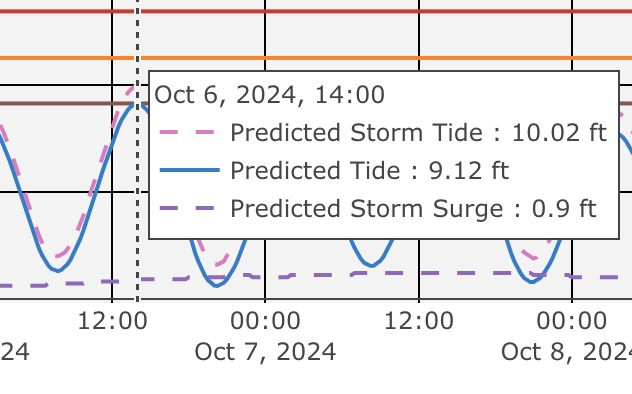
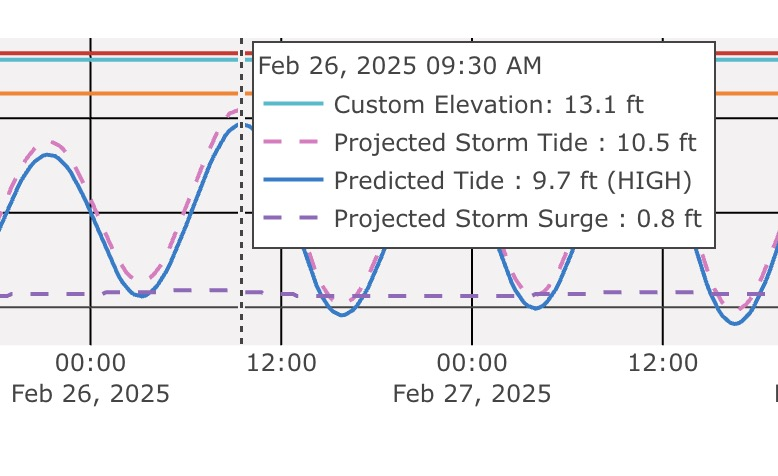
For storm surge data, changed "predicted" to "projected" everywhere

Changed region(s): [[0.0, 0.0, 1.0, 0.9137], [0.9921, 0.7919, 1.0, 0.8528]]

diff --git a/wnttapp/src/Glossary.jsx b/wnttapp/src/Glossary.jsx
@@ -166,7 +166,19 @@ export default function Glossary() {
                 </Row>
                 <Row>
                     <Col sm={2} className='border-end border-2'>
-                        <b>Predicted Storm Surge</b>
+                        <b>Recorded Storm Surge</b>
+                    </Col>
+                    <Col>
+                        The difference between the Observed Tide and the Predicted Tide. This
+                        generally represents the effects of wind, rain and other meteorological
+                        factors such as storms. For example, if the Predicted Tide was 11.5 feet and
+                        the Observed Tide was 12 feet, the Recorded Storm Surge would be 0.5 feet
+                        for that observation time.
+                    </Col>
+                </Row>
+                <Row>
+                    <Col sm={2} className='border-end border-2'>
+                        <b>Projected Storm Surge</b>
                     </Col>
                     <Col>
                         A computer model-generated estimate of adjustments to Predicted Tide levels
@@ -193,21 +205,9 @@ export default function Glossary() {
                 </Row>
                 <Row>
                     <Col sm={2} className='border-end border-2'>
-                        <b>Recorded Storm Surge</b>
+                        <b>Projected Storm Tide</b>
                     </Col>
-                    <Col>
-                        The difference between the Observed Tide and the Predicted Tide. This
-                        generally represents the effects of wind, rain and other meteorological
-                        factors such as storms. For example, if the Predicted Tide was 11.5 feet and
-                        the Observed Tide was 12 feet, the Recorded Storm Surge would be 0.5 feet
-                        for that observation time.
-                    </Col>
-                </Row>
-                <Row>
-                    <Col sm={2} className='border-end border-2'>
-                        <b>Predicted Storm Tide</b>
-                    </Col>
-                    <Col>The sum of Predicted Tide and Predicted Storm Surge.</Col>
+                    <Col>The sum of Predicted Tide and Projected Storm Surge.</Col>
                 </Row>
                 <Row>
                     <Col sm={2} className='border-end border-2'>

diff --git a/wnttapp/src/GraphHelp.jsx b/wnttapp/src/GraphHelp.jsx
@@ -33,7 +33,7 @@ export default function GraphHelp(props) {
                         see a new colored line on the graph with the label <b>Custom Elevation. </b>
                         If you set your date range to include today and the next several days,{' '}
                         <b>
-                            you will be able to see whether the predicted tide comes close to or
+                            you will be able to see whether the projected tide comes close to or
                             exceeds this elevation.
                         </b>
                     </Accordion.Body>
@@ -47,9 +47,9 @@ export default function GraphHelp(props) {
                         speed/direction, along with the predicted astronomical tides. For several
                         days in the future, in addition to predicted astronomical tides, (which do
                         not account for the effects of weather), there is the experimental{' '}
-                        <b>Predicted Storm Surge</b> data, which does consider weather (wind
+                        <b>Projected Storm Surge</b> data, which does consider weather (wind
                         speed/direction). This, added to the astronomical tide, adds up to the
-                        overall Predicted Storm Tide or water levels. This value is meant to be the
+                        overall Projected Storm Tide water levels. This value is meant to be the
                         best available estimate, and, since it is updated every 6 hours, may become
                         more accurate as the tide in question approaches. There are no wind
                         forecasts shown here, but users should bear in mind that high winds,

diff --git a/wnttapp/src/tutorials/graph.jsx b/wnttapp/src/tutorials/graph.jsx
@@ -90,13 +90,11 @@ export const getData = () => {
             render: () => {
                 return (
                     <span>
-                        For several days in the the future, you will see the Predicted Storm Tide
+                        For several days in the the future, you will see the Projected Storm Tide
                         value, which is the sum of the Predicted Tide (astronomical) and the
-                        Predicted Storm Surge. This surge value comes from an experimental project
+                        Projected Storm Surge. This surge value comes from an experimental project
                         by NOAA, and is the best known estimate for the Wells harbor, updated every
-                        6 hours. While there are no wind estimates included here, bear in mind that
-                        high winds, particularly when coming from the east, can drive waves higher
-                        than the tide levels.
+                        6 hours.
                     </span>
                 )
             },

diff --git a/wnttapp/src/Graph.jsx b/wnttapp/src/Graph.jsx
@@ -209,7 +209,7 @@ export default function Graph() {
                           y: data.future_tide,
                           type: 'scatter',
                           legendgroup: 'grp1',
-                          name: 'Predicted Storm Tide',
+                          name: 'Projected Storm Tide',
                           mode: 'lines',
                           line: { dash: 'dash', color: '#e377c2' },
                           hovertemplate: '%{y} ft',
@@ -261,7 +261,7 @@ export default function Graph() {
                           y: data.future_surge,
                           legendgroup: 'grp1',
                           type: 'scatter',
-                          name: 'Predicted Storm Surge',
+                          name: 'Projected Storm Surge',
                           mode: 'lines',
                           line: { dash: 'dash', color: '#9467bd' },
                           hovertemplate: '%{y} ft',

diff --git a/wnttapp/src/About.jsx b/wnttapp/src/About.jsx
@@ -63,7 +63,7 @@ export default function About() {
                             This application solves the problem by aggregating and presenting
                             graphical tide data alongside an optional user-configured elevation
                             based on a map location. It includes wind data, observed tide levels,
-                            astronomical tide predictions, and the predicted storm surge for four
+                            astronomical tide predictions, and the projected storm surge for four
                             days into the future. All data is presented using the same vertical
                             datum (point of reference), so that observations, predictions,
                             estimations and elevations may be displayed on a single graph for

diff --git a/wnttapi/app/datasource/surge.py b/wnttapi/app/datasource/surge.py
@@ -40,7 +40,7 @@ def get_surge_data(timeline, astro_levels, observed) -> (list, list, list):
     past_surge_data = []
     future_surge_data = []
     future_storm_tide = []
-    predicted_found = False
+    projected_found = False
     future_storm_tide_found = False
 
     # Past Surge
@@ -58,7 +58,7 @@ def get_surge_data(timeline, astro_levels, observed) -> (list, list, list):
                 break
 
     if includes_future:
-        surge_dict = get_or_load_predicted_surge_file(now)
+        surge_dict = get_or_load_projected_surge_file(now)
         last_surge_value = None
         last_surge_value_used_count = 0
         for (dt, astro) in zip(timeline[ii:], astro_levels[ii:]):
@@ -77,7 +77,7 @@ def get_surge_data(timeline, astro_levels, observed) -> (list, list, list):
 
             if surge_value is not None:
                 future_surge_data.append(surge_value)
-                predicted_found = True
+                projected_found = True
                 if astro is not None:
                     future_storm_tide.append(astro + surge_value)
                     future_storm_tide_found = True
@@ -88,13 +88,13 @@ def get_surge_data(timeline, astro_levels, observed) -> (list, list, list):
                 future_storm_tide.append(None)
 
     return (past_surge_data if includes_past else None,
-            future_surge_data if predicted_found else None,
+            future_surge_data if projected_found else None,
             future_storm_tide if future_storm_tide_found else None)
 
 
-def get_or_load_predicted_surge_file(after: datetime) -> dict:
+def get_or_load_projected_surge_file(after: datetime) -> dict:
 
-    """The csv file containing the predicted surge data is updated on the NOAA site every 6 hours,
+    """The csv file containing the projected surge data is updated on the NOAA site every 6 hours,
     and is downloaded by a cron job. Once loaded, its contents are cached for performance.
     So here, we have to determine if the disk file has been replaced since we last processed it. Therefore,
     if surge data file exists and has not been replaced by a newer download file, read the cache.

diff --git a/wnttapi/app/graphutil.py b/wnttapi/app/graphutil.py
@@ -31,8 +31,8 @@ wspd_title = 'Average Wind Speed'
 wgust_title = 'Wind Gust'
 astro_tide_title = 'Predicted Tide'
 past_surge_title = 'Storm Surge'
-future_surge_title = 'Predicted Storm Surge'
-future_tide_title = 'Predicted Storm Tide'
+future_surge_title = 'Projected Storm Surge'
+future_tide_title = 'Projected Storm Tide'
 tide_graph_title = 'Wells Harbor Recorded Tides vs Predicted Tides'
 wind_graph_title = 'Wells Reserve Wind Speed and Direction'
 
